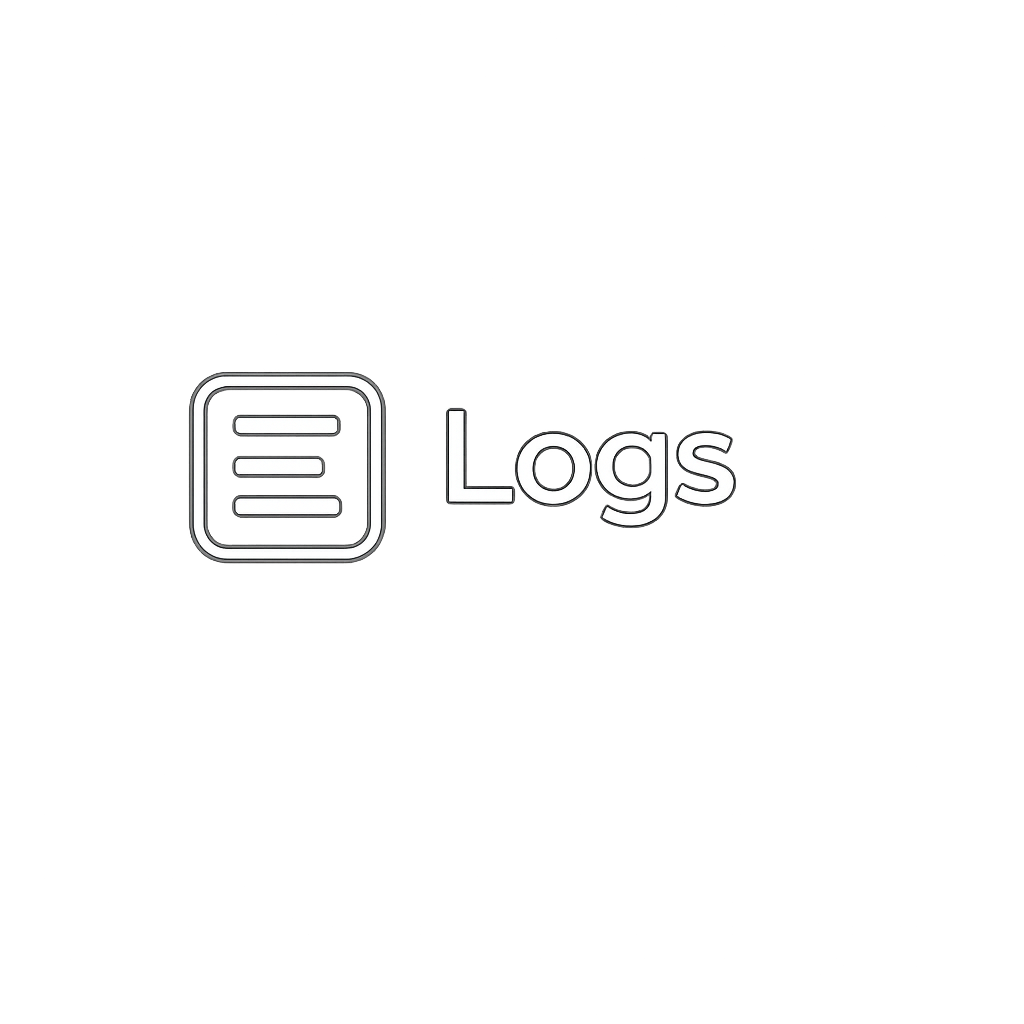
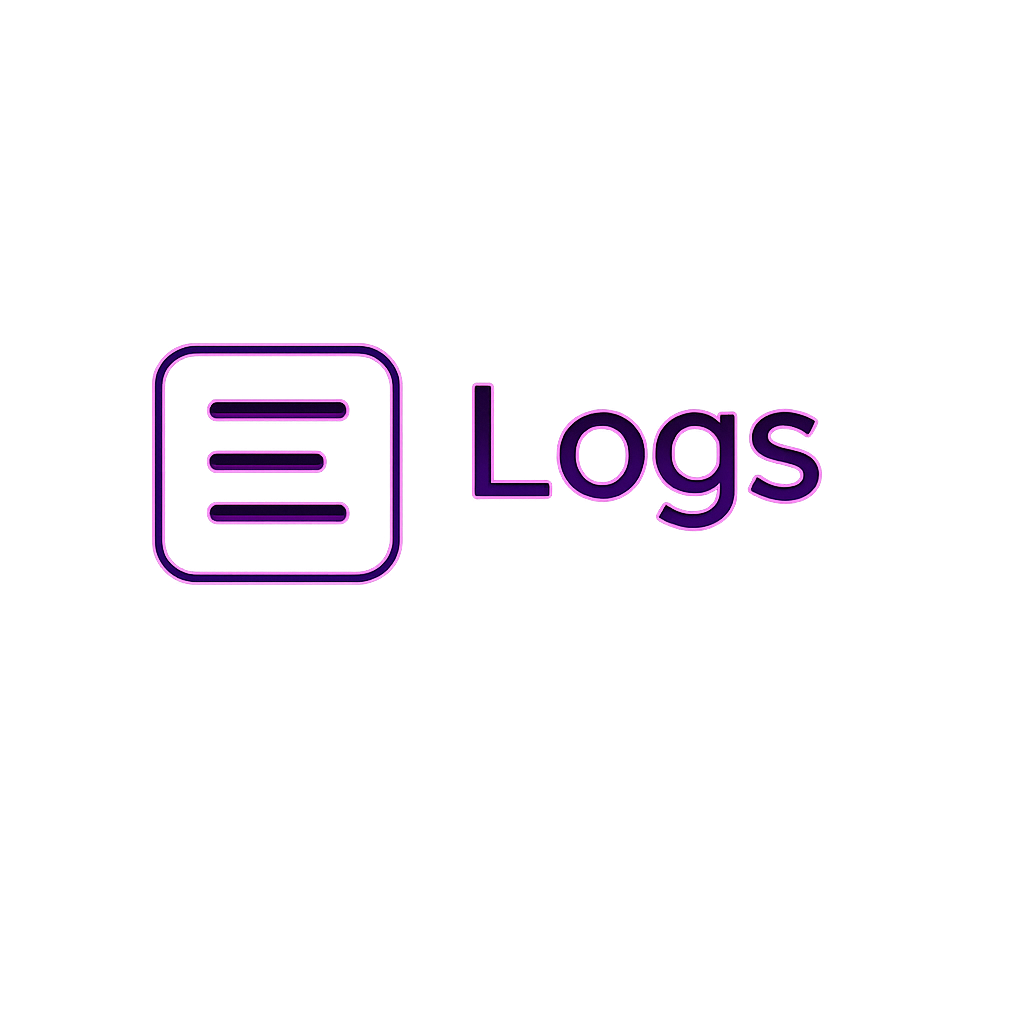
Replace inactive sidebar artwork

Changed region(s): [[0.125, 0.3125, 0.4062, 0.5938], [0.4375, 0.375, 0.8125, 0.5312]]

diff --git a/RELEASE_NOTES.md b/RELEASE_NOTES.md
@@ -1,4 +1,4 @@
-# Steam Controller Bridge v0.6.6
+# Steam Controller Bridge v0.6.7
 
 Initial public MVP for testing the 2026 Steam Controller outside Steam.
 
@@ -23,10 +23,9 @@ Initial public MVP for testing the 2026 Steam Controller outside Steam.
 - Includes Start with Windows and automatic Steam handoff/reconnect behavior.
 - Includes diagnostic logging.
 
-## Changes in 0.6.6
+## Changes in 0.6.7
 
-- Unified the left sidebar background to the darker app color.
-- Reduced contrast around the controller, navigation, and connection status areas.
+- Replaced inactive sidebar category artwork with matched inverted versions for cleaner active/inactive transitions.
 
 ## Requirements
 
@@ -53,5 +52,5 @@ Initial public MVP for testing the 2026 Steam Controller outside Steam.
 
 ## Release Assets
 
-- `SteamControllerBridgeSetup-0.6.6.exe`
-- `SteamControllerBridge-win-x64-self-contained-0.6.6.zip`
+- `SteamControllerBridgeSetup-0.6.7.exe`
+- `SteamControllerBridge-win-x64-self-contained-0.6.7.zip`

diff --git a/CHANGELOG.md b/CHANGELOG.md
@@ -1,5 +1,9 @@
 # Changelog
 
+## 0.6.7
+
+- Replaced inactive sidebar category artwork with matched inverted versions.
+
 ## 0.6.6
 
 - Unified the left sidebar background to the darker app color.
